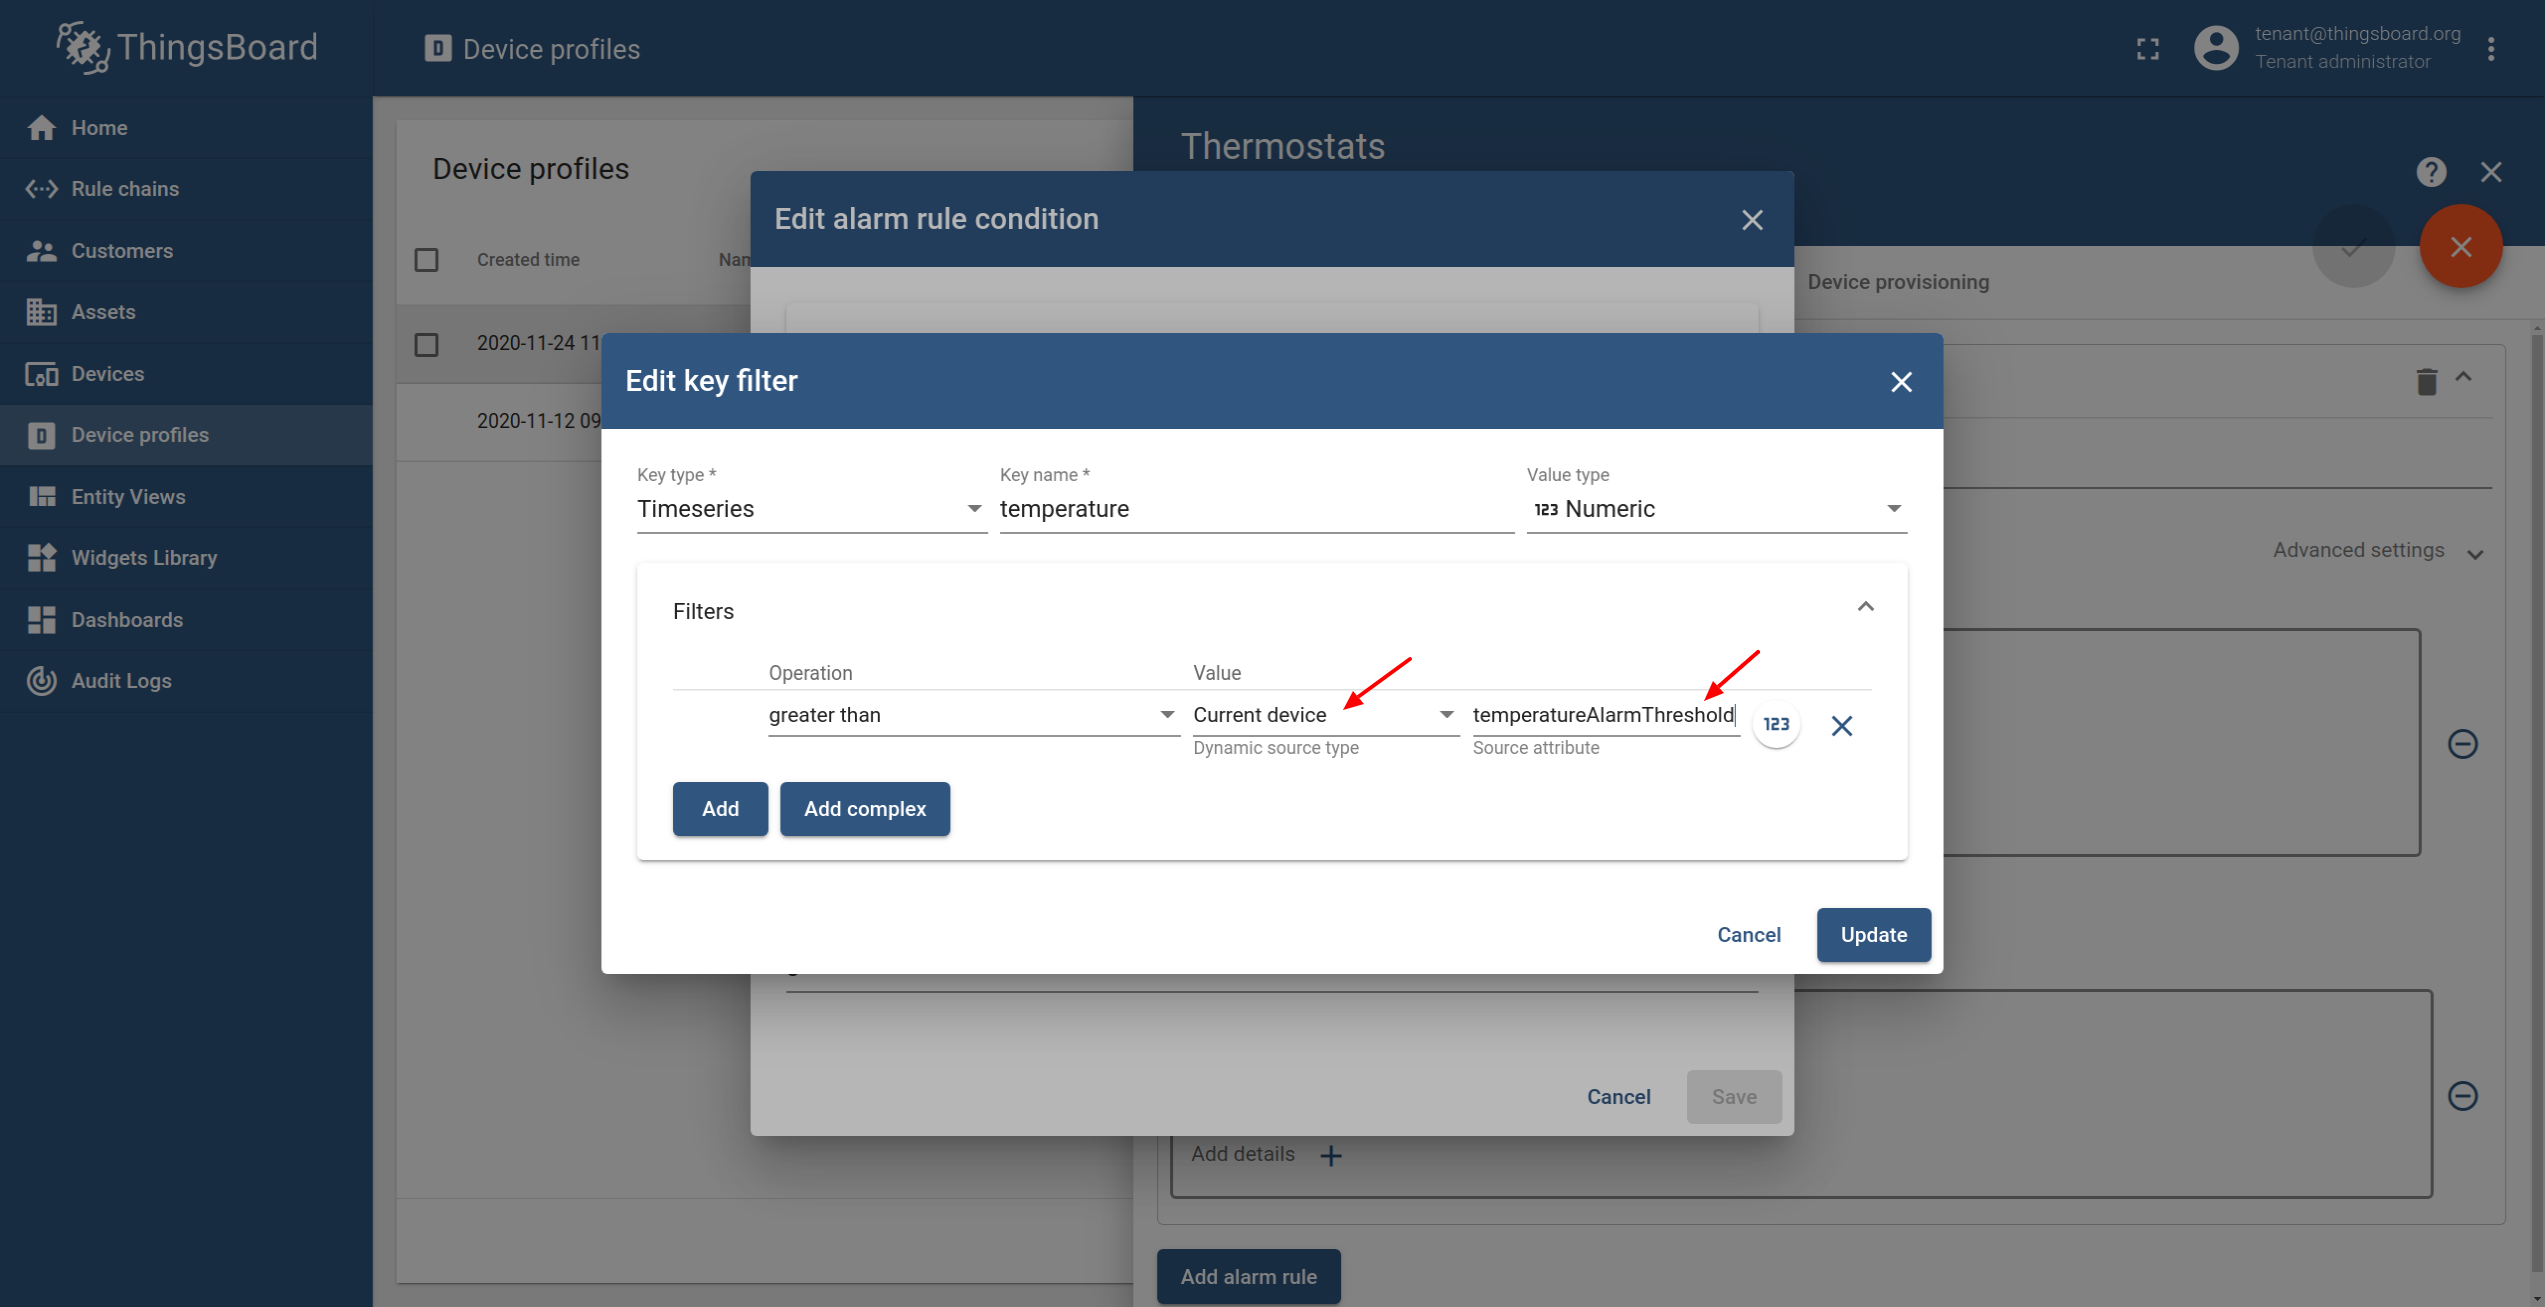
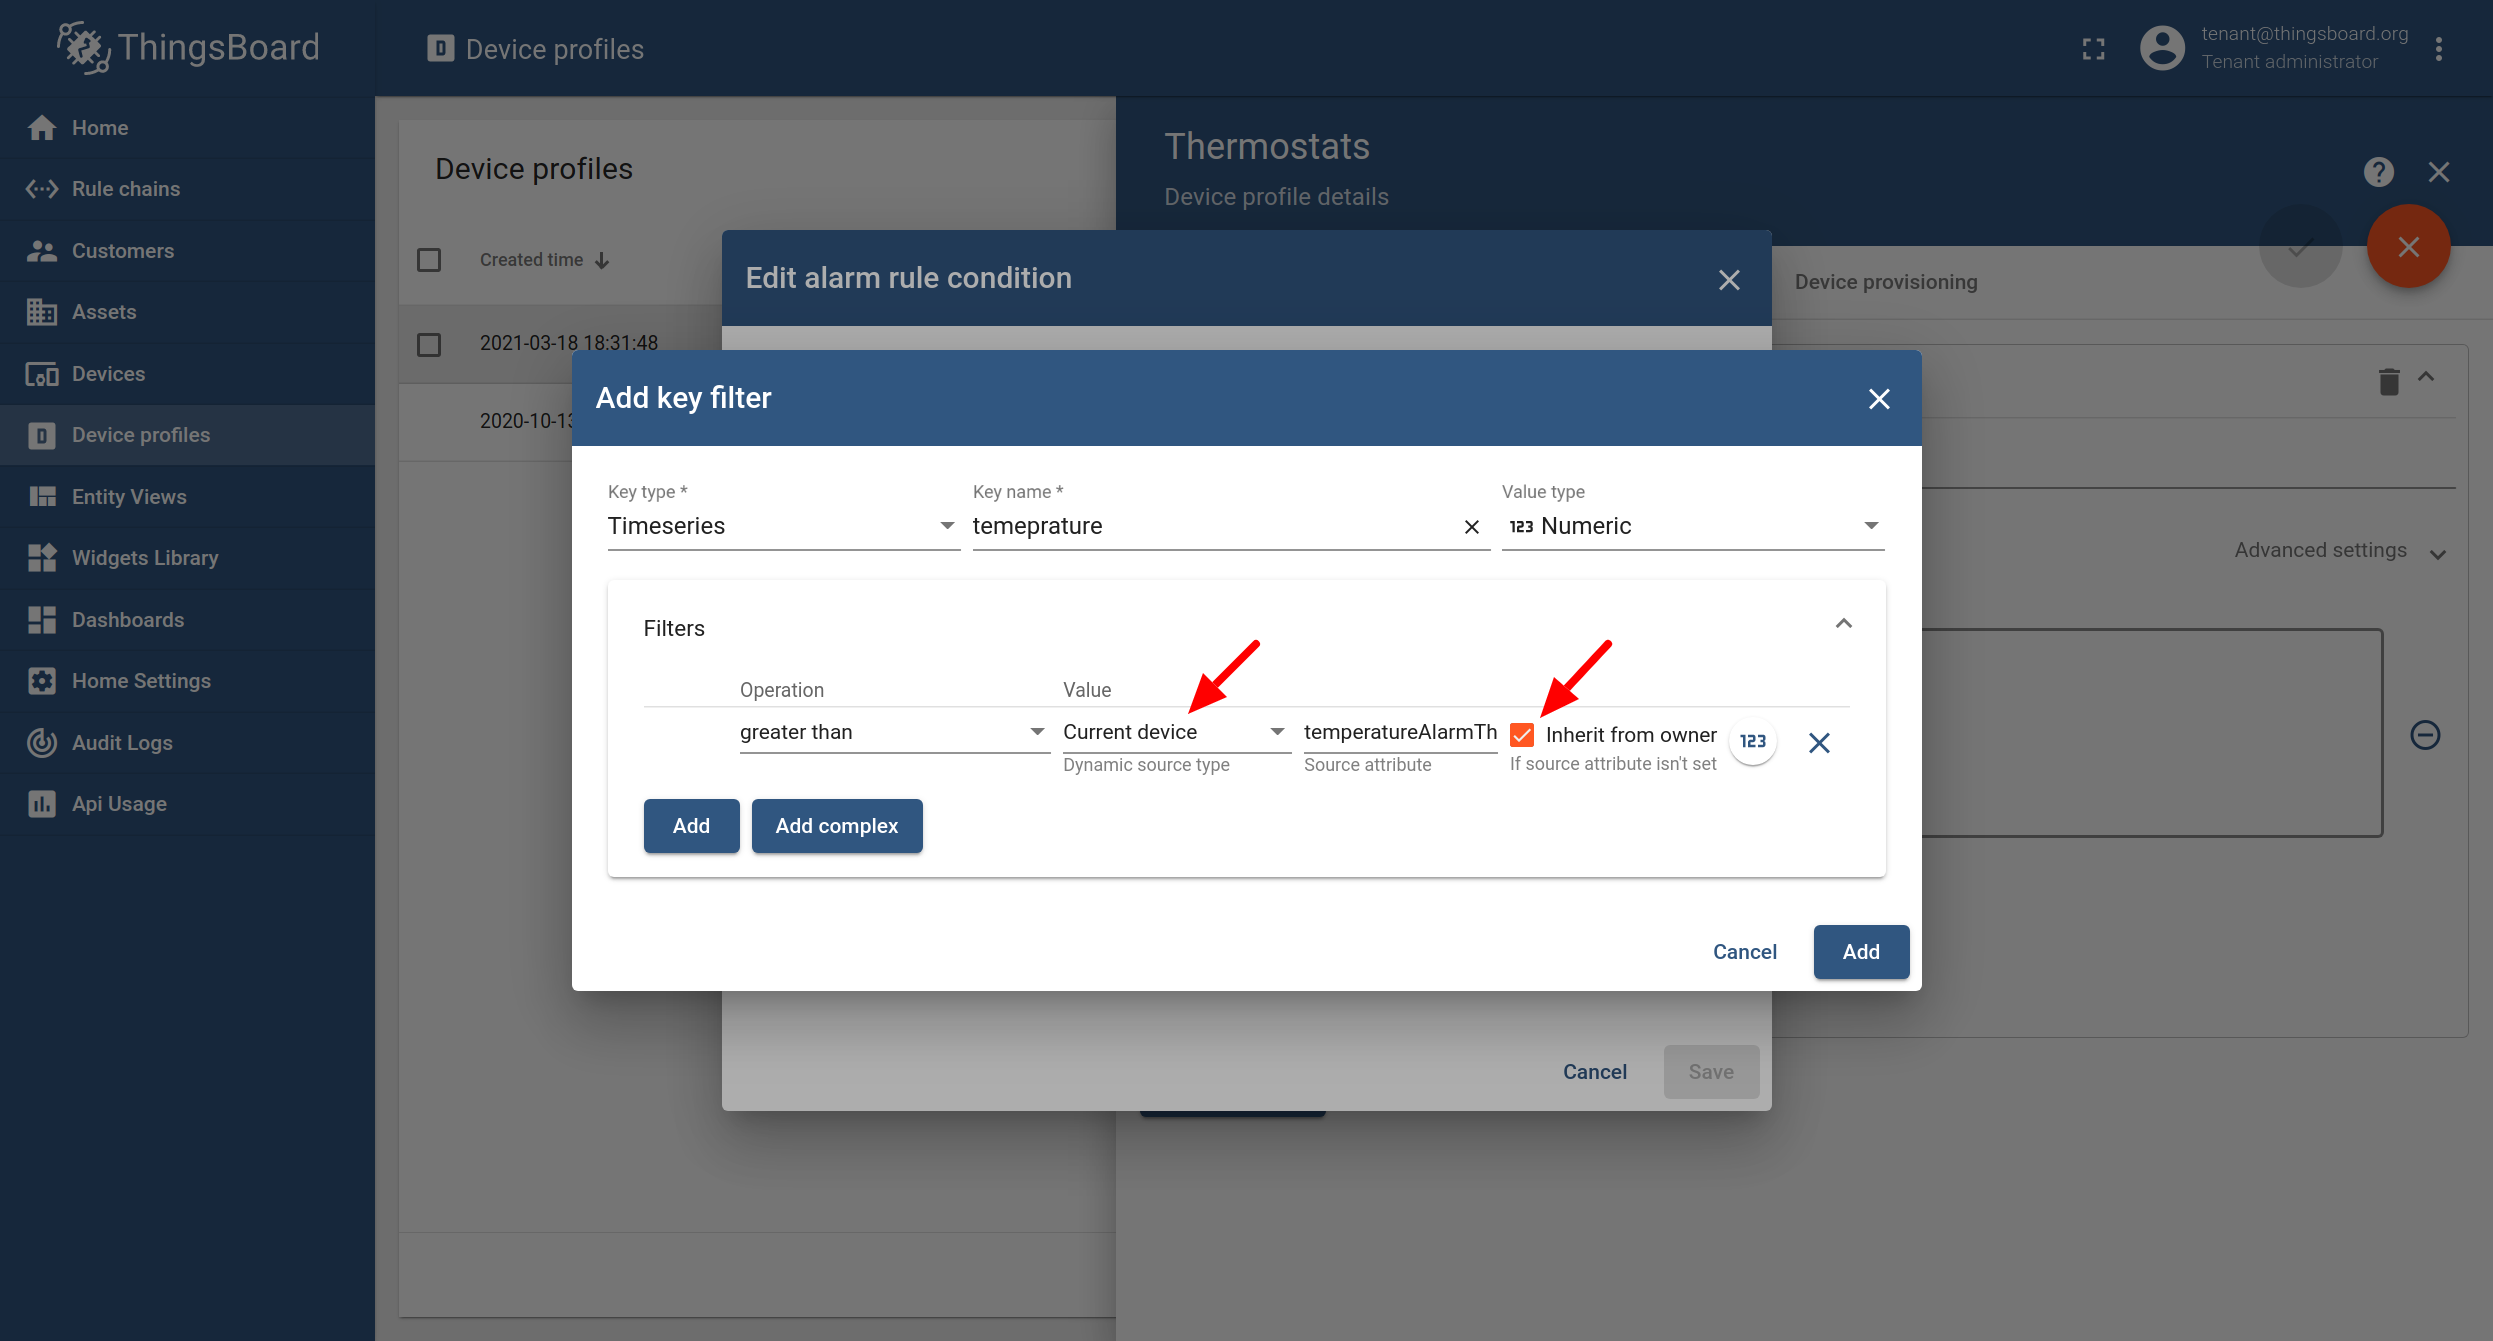
Documentation about Constant alarm filters

diff --git a/docs/user-guide/device-profiles.md b/docs/user-guide/device-profiles.md
@@ -94,7 +94,7 @@ alarmСonditionsAdvanced:
         title: 'Step 1. Modify the temperature key filter and change the value type to dynamic.'
     1:
         image: /images/user-guide/device-profile/alarm-example-6-step-2.png
-        title: 'Step 2. Select a dynamic source type and input the *temperatureAlarmThreshold*, then click "Update".'
+        title: 'Step 2. Select a dynamic source type and input the *temperatureAlarmThreshold*, then click "Update". You may optionally check "Inherit from owner". Inheritance allows to take the threshold value from customer if it is not set on the device level. If the attribute value is not set on both device and customer levels, rule will take the value from the tenant attributes.'
     2:
         image: /images/user-guide/device-profile/alarm-example-6-step-3.png
         title: 'Step 3. Add another key filter for the *temperatureAlarmFlag*, then click "Add".'
@@ -104,6 +104,11 @@ alarmСonditionsAdvanced:
     4:
         image: /images/user-guide/device-profile/alarm-example-6-step-5.png
         title: 'Step 5. Provision device attributes either manually or via the script.'
+
+alarmСonstantFilters:
+    0:
+        image: /images/user-guide/device-profile/alarm-example-7-step-1.png  
+        title: 'Choose constant type and value and compare it with the value of the tenant or customer attribute.'
 
 ruleNode:
     0:
@@ -284,6 +289,17 @@ We will use two attributes: the boolean *temperatureAlarmFlag*, and the numeric 
 Our goal is to trigger an alarm creation when "*temperatureAlarmFlag* = True AND *temperature* is greater than *temperatureAlarmThreshold*".
 
 {% include images-gallery.html imageCollection="alarmСonditionsAdvanced" showListImageTitles="true" %}
+
+#### Example 7. Dynamic thresholds based on the tenant or customer attributes
+
+Example 6 demonstrates how to enable or disable rule based on the value of "temperatureAlarmFlag" attribute of the device. 
+But what if you would like to enable or disable certain rule for all devices that belong to a tenant or customer?
+To avoid configuration of the attribute for each device, you may configure alarm rule to compare constant value with the value of Tenant or Customer Attribute.
+For this purpose, you should use "Constant" key type and compare it with dynamic value. See configuration example below:
+
+{% include images-gallery.html imageCollection="alarmСonstantFilters" showListImageTitles="false" %}
+
+The technique mentioned above may be used to enable or disable rules or combine filters on device telemetry/attributes with filters on tenant or customer attributes.
 
 #### Device profile rule node
 
